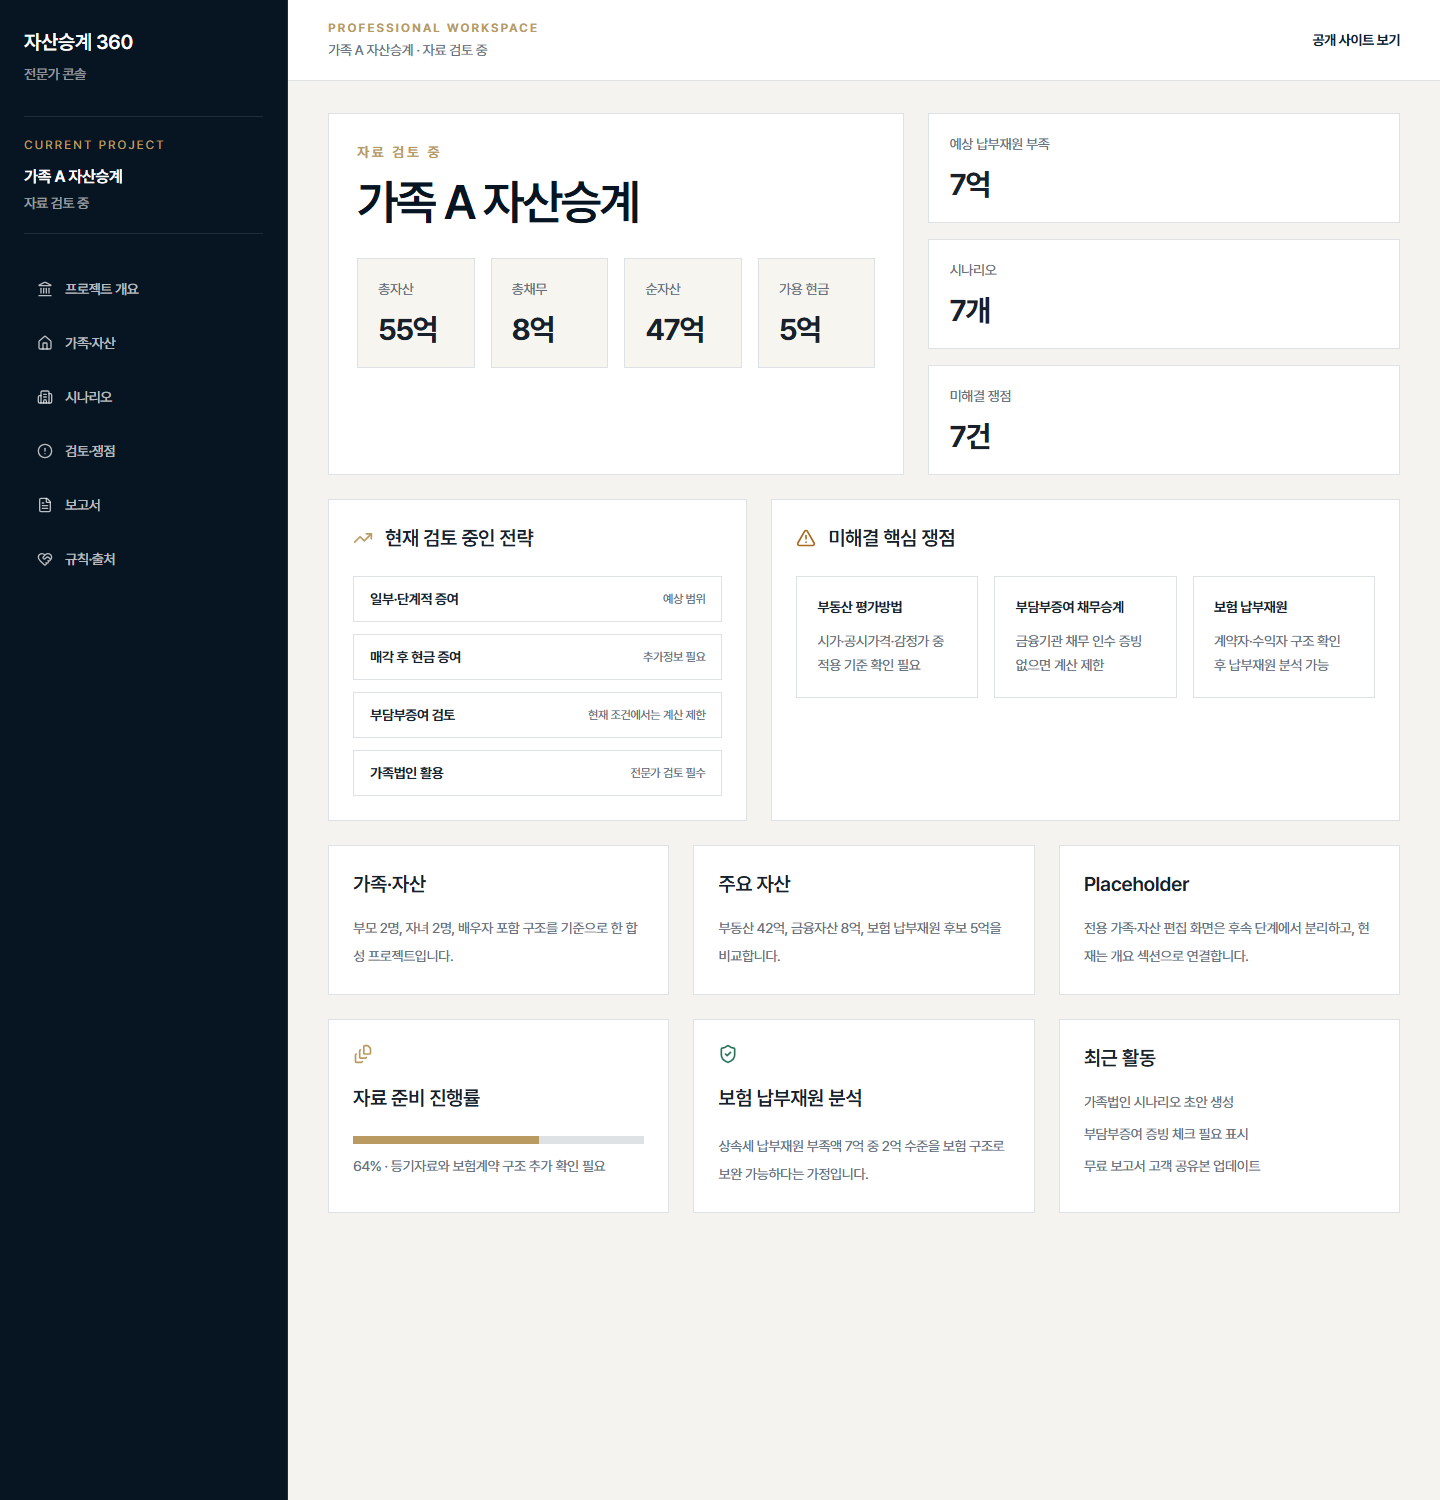
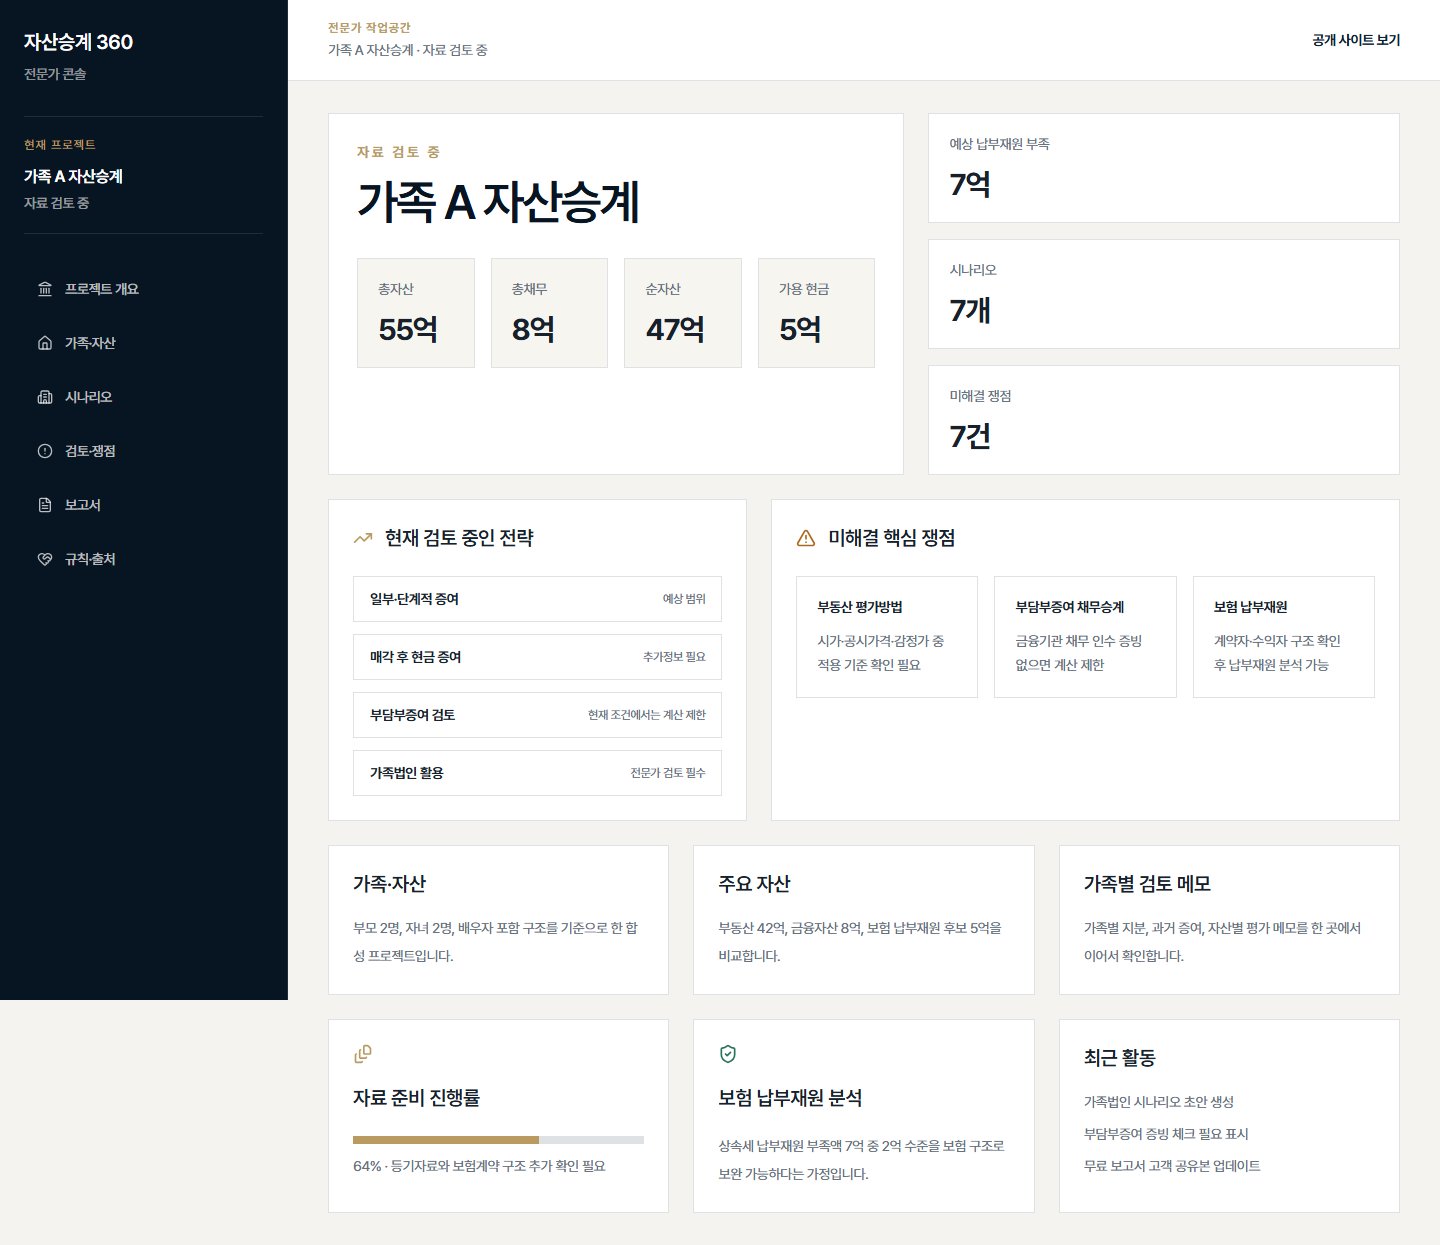
Polish PR 2 product presentation

diff --git a/app/page.tsx b/app/page.tsx
@@ -1,7 +1,7 @@
 import Link from "next/link";
 import { ArrowRight, FileText, ShieldCheck } from "lucide-react";
 import { PublicNav } from "@/components/PublicNav";
-import { flowSteps, publicValuePoints, strategyBranches, prototypeDisclaimer } from "@/lib/mockData";
+import { flowSteps, publicValuePoints, strategyBranches, simulationDisclaimer } from "@/lib/mockData";
 
 export default function LandingPage() {
   return (
@@ -10,13 +10,16 @@ export default function LandingPage() {
         <PublicNav />
         <div className="mx-auto grid min-h-[92vh] max-w-7xl items-center gap-14 px-6 pb-20 pt-32 lg:grid-cols-[1.04fr_0.96fr] lg:px-8">
           <div>
-            <p className="text-sm font-semibold uppercase tracking-[0.22em] text-[var(--gold)]">Private family office pre-check</p>
+            <p className="text-sm font-semibold tracking-[0.08em] text-[var(--gold)]">자산승계 사전진단</p>
             <h1 className="mt-7 max-w-4xl text-[2.55rem] font-semibold leading-[1.04] tracking-[-0.065em] sm:text-[3.15rem] md:text-[5rem]">
               우리 가족의 자산, 어떤 방식으로 남기는 것이 좋을까요?
             </h1>
             <p className="mt-7 max-w-[calc(100vw-3rem)] text-lg leading-8 text-white/72 md:max-w-2xl md:text-xl">
               <span className="block">상속·증여·매각·가족법인·보험 활용까지</span>
               <span className="block">가능한 자산승계 시나리오를 한 번에 비교합니다.</span>
+            </p>
+            <p className="mt-4 max-w-2xl border-l border-[var(--gold)]/60 pl-4 text-sm leading-7 text-white/70">
+              세액 확정 화면이 아니라, 가족 회의 전에 “어떤 선택지를 더 깊게 검토할지” 정리하는 비교 기준입니다.
             </p>
             <div className="mt-9 flex flex-wrap items-center gap-4">
               <Link href="/precheck" className="inline-flex items-center gap-3 bg-white px-5 py-4 text-sm font-semibold text-[var(--navy-950)] transition hover:bg-[var(--ivory)] sm:px-6">
@@ -39,7 +42,7 @@ export default function LandingPage() {
           <div className="relative hidden md:block">
             <div className="border border-white/12 bg-white/[0.04] p-5 backdrop-blur">
               <div className="border border-white/10 bg-[var(--navy-950)]/70 p-6">
-                <p className="text-xs font-semibold uppercase tracking-[0.2em] text-[var(--gold)]">Strategy map</p>
+                <p className="text-xs font-semibold tracking-[0.08em] text-[var(--gold)]">7가지 승계지도</p>
                 <div className="mt-6 grid gap-3">
                   {strategyBranches.map((strategy, index) => {
                     const Icon = strategy.icon;
@@ -50,7 +53,7 @@ export default function LandingPage() {
                         </span>
                         <div className="min-w-0 flex-1">
                           <p className="text-sm font-semibold">{strategy.name}</p>
-                          <p className="mt-1 text-xs text-white/52">{strategy.description}</p>
+                          <p className="mt-1 text-xs text-white/68">{strategy.description}</p>
                         </div>
                         <span className="text-xs text-white/38">0{index + 1}</span>
                       </div>
@@ -102,7 +105,7 @@ export default function LandingPage() {
               </Link>
             </article>
           </div>
-          <p className="mt-8 text-xs text-[var(--muted)]">{prototypeDisclaimer}</p>
+          <p className="mt-8 text-xs text-[var(--muted)]">{simulationDisclaimer}</p>
         </div>
       </section>
     </main>

diff --git a/app/expert/workspace/page.tsx b/app/expert/workspace/page.tsx
@@ -36,7 +36,7 @@ export default function ExpertWorkspacePage() {
           <section className="border border-[var(--border)] bg-white p-6">
             <div className="flex items-center justify-between gap-4">
               <div>
-                <p className="text-sm font-semibold uppercase tracking-[0.18em] text-[var(--gold)]">Family corporation scenario</p>
+                <p className="text-sm font-semibold tracking-[0.08em] text-[var(--gold)]">가족법인 활용 시나리오</p>
                 <h2 className="mt-3 text-3xl font-semibold tracking-[-0.05em] text-[var(--navy-950)]">자산·소유구조 변화</h2>
               </div>
               <button type="button" className="hidden border border-[var(--border)] px-4 py-3 text-sm font-semibold md:inline-flex">
@@ -88,17 +88,17 @@ export default function ExpertWorkspacePage() {
                 <h2 className="text-lg font-semibold">우측 편집 패널</h2>
               </div>
               <p className="mt-4 text-sm leading-7 text-[var(--muted)]">
-                이벤트 수정은 별도 페이지 이동이 아니라 우측 sheet에서 열리는 방식으로 표현합니다.
+                이벤트 수정은 별도 페이지 이동 없이 우측 편집 패널에서 이어서 검토하는 흐름입니다.
               </p>
             </article>
           </aside>
         </section>
 
         <section id="sources" className="mt-6 border border-[var(--border)] bg-white p-6">
-          <p className="text-sm font-semibold uppercase tracking-[0.18em] text-[var(--gold)]">Rules & sources</p>
-          <h2 className="mt-3 text-2xl font-semibold tracking-[-0.04em]">규칙·출처 placeholder</h2>
+          <p className="text-sm font-semibold tracking-[0.08em] text-[var(--gold)]">규칙·출처</p>
+          <h2 className="mt-3 text-2xl font-semibold tracking-[-0.04em]">공식 근거 검토 현황</h2>
           <p className="mt-4 text-sm leading-7 text-[var(--muted)]">
-            세법 원문, 예규, 심판례 연결 상태를 보여주는 전문가 전용 영역입니다. 현재 PR에서는 실제 MCP나 세법 엔진을 연결하지 않고 합성 상태만 표시합니다.
+            세법 원문, 예규, 심판례 연결 상태를 보여주는 전문가 전용 영역입니다. 이 화면은 합성 상태만 표시하며 실제 세법 조회나 계산 엔진에는 연결되어 있지 않습니다.
           </p>
         </section>
       </main>

diff --git a/app/precheck/result/page.tsx b/app/precheck/result/page.tsx
@@ -11,7 +11,7 @@ export default function ResultPage() {
       <section className="mx-auto max-w-7xl px-6 py-12 lg:px-8">
         <div className="grid gap-10 lg:grid-cols-[0.9fr_1.1fr]">
           <div>
-            <p className="text-sm font-semibold uppercase tracking-[0.18em] text-[var(--gold)]">Pre-check report</p>
+            <p className="text-sm font-semibold tracking-[0.08em] text-[var(--gold)]">사전진단 결과</p>
             <h1 className="mt-4 text-4xl font-semibold leading-tight tracking-[-0.055em] text-[var(--navy-950)] md:text-6xl">
               입력 정보 기준 사전 추정 결과입니다.
             </h1>
@@ -31,7 +31,25 @@ export default function ResultPage() {
           </div>
         </div>
 
-        <div className="mt-12">
+        <section className="mt-12 grid gap-4 lg:grid-cols-3">
+          <article className="border border-[var(--border)] bg-white p-6">
+            <p className="text-sm font-semibold text-[var(--gold)]">먼저 볼 기준</p>
+            <h2 className="mt-4 text-2xl font-semibold tracking-[-0.04em]">납부재원 부족액</h2>
+            <p className="mt-3 text-sm leading-7 text-[var(--muted)]">세금 총액보다 실제 현금으로 준비해야 할 부족분을 먼저 확인합니다.</p>
+          </article>
+          <article className="border border-[var(--border)] bg-white p-6">
+            <p className="text-sm font-semibold text-[var(--gold)]">정밀 검토 후보</p>
+            <h2 className="mt-4 text-2xl font-semibold tracking-[-0.04em]">부담부증여·가족법인</h2>
+            <p className="mt-3 text-sm leading-7 text-[var(--muted)]">채무승계 증빙과 지분평가 기준이 확인되어야 비교가 의미 있습니다.</p>
+          </article>
+          <article className="border border-[var(--border)] bg-[var(--navy-950)] p-6 text-white">
+            <p className="text-sm font-semibold text-[var(--gold)]">다음 행동</p>
+            <h2 className="mt-4 text-2xl font-semibold tracking-[-0.04em]">가족 회의용 공유</h2>
+            <p className="mt-3 text-sm leading-7 text-white/68">개인정보 없이 같은 가정과 비교표만 보고, 상담 전 질문을 정리합니다.</p>
+          </article>
+        </section>
+
+        <div className="mt-8">
           <StrategyComparison />
         </div>
 

diff --git a/components/ExpertShell.tsx b/components/ExpertShell.tsx
@@ -37,7 +37,7 @@ export function ExpertShell({ children }: Readonly<{ children: React.ReactNode }
         </Link>
         <p className="mt-2 text-sm text-white/55">전문가 콘솔</p>
         <div className="mt-8 border-y border-white/10 py-5">
-          <p className="text-xs uppercase tracking-[0.18em] text-[var(--gold)]">Current project</p>
+          <p className="text-xs tracking-[0.08em] text-[var(--gold)]">현재 프로젝트</p>
           <p className="mt-3 font-semibold">{projectSnapshot.title}</p>
           <p className="mt-1 text-sm text-white/58">{projectSnapshot.stage}</p>
         </div>
@@ -58,7 +58,7 @@ export function ExpertShell({ children }: Readonly<{ children: React.ReactNode }
               </button>
             </div>
             <div className="mt-8 border-y border-white/10 py-5">
-              <p className="text-xs uppercase tracking-[0.18em] text-[var(--gold)]">Current project</p>
+              <p className="text-xs tracking-[0.08em] text-[var(--gold)]">현재 프로젝트</p>
               <p className="mt-3 font-semibold">{projectSnapshot.title}</p>
               <p className="mt-1 text-sm text-white/58">{projectSnapshot.stage}</p>
             </div>
@@ -81,7 +81,7 @@ export function ExpertShell({ children }: Readonly<{ children: React.ReactNode }
                 <Menu className="h-5 w-5" />
               </button>
               <div>
-                <p className="text-xs font-semibold uppercase tracking-[0.18em] text-[var(--gold)]">Professional workspace</p>
+                <p className="text-xs font-semibold tracking-[0.08em] text-[var(--gold)]">전문가 작업공간</p>
                 <p className="mt-1 text-sm text-[var(--muted)]">{projectSnapshot.title} · {projectSnapshot.stage}</p>
               </div>
             </div>

diff --git a/app/expert/overview/page.tsx b/app/expert/overview/page.tsx
@@ -81,8 +81,8 @@ export default function ExpertOverviewPage() {
             <p className="mt-4 text-sm leading-7 text-[var(--muted)]">부동산 42억, 금융자산 8억, 보험 납부재원 후보 5억을 비교합니다.</p>
           </article>
           <article className="border border-[var(--border)] bg-white p-6">
-            <h2 className="text-xl font-semibold">Placeholder</h2>
-            <p className="mt-4 text-sm leading-7 text-[var(--muted)]">전용 가족·자산 편집 화면은 후속 단계에서 분리하고, 현재는 개요 섹션으로 연결합니다.</p>
+            <h2 className="text-xl font-semibold">가족별 검토 메모</h2>
+            <p className="mt-4 text-sm leading-7 text-[var(--muted)]">가족별 지분, 과거 증여, 자산별 평가 메모를 한 곳에서 이어서 확인합니다.</p>
           </article>
         </section>
 

diff --git a/components/PrecheckWizard.tsx b/components/PrecheckWizard.tsx
@@ -3,7 +3,7 @@
 import Link from "next/link";
 import { ArrowLeft, ArrowRight, Check, ChevronRight } from "lucide-react";
 import { useEffect, useMemo, useState } from "react";
-import { prototypeDisclaimer, wizardSteps } from "@/lib/mockData";
+import { simulationDisclaimer, wizardSteps } from "@/lib/mockData";
 
 type WizardAnswers = Record<string, { choice: string; detail: string }>;
 
@@ -181,7 +181,7 @@ export function PrecheckWizard() {
             </button>
           )}
         </div>
-        <p className="mt-6 text-xs text-[var(--muted)]">{prototypeDisclaimer}</p>
+        <p className="mt-6 text-xs text-[var(--muted)]">{simulationDisclaimer}</p>
       </section>
     </section>
   );

diff --git a/app/consultation/page.tsx b/app/consultation/page.tsx
@@ -15,7 +15,7 @@ export default function ConsultationPage() {
             가족이 입력한 사전진단 요약을 기준으로 쟁점을 먼저 확인하고, 필요한 자료와 상담 방향을 빠르게 정리합니다.
           </p>
           <div className="mt-8 border border-white/10 p-5">
-            <p className="text-xs uppercase tracking-[0.18em] text-white/45">Pre-check ID</p>
+            <p className="text-xs tracking-[0.08em] text-white/45">사전진단 ID</p>
             <p className="mt-3 text-2xl font-semibold tracking-[-0.04em]">AS360-DEMO-2409</p>
           </div>
         </aside>

diff --git a/app/layout.tsx b/app/layout.tsx
@@ -3,7 +3,7 @@ import "./globals.css";
 
 export const metadata: Metadata = {
   title: "자산승계 360",
-  description: "상속·증여·매각·가족법인·보험 활용까지 비교하는 자산승계 사전진단 프로토타입"
+  description: "상속·증여·매각·가족법인·보험 활용까지 비교하는 자산승계 사전진단 화면"
 };
 
 export default function RootLayout({ children }: Readonly<{ children: React.ReactNode }>) {

diff --git a/lib/mockData.ts b/lib/mockData.ts
@@ -280,4 +280,4 @@ export const expertNav = [
   { href: "/expert/workspace#sources", label: "규칙·출처", icon: HeartHandshake, enabled: true }
 ];
 
-export const prototypeDisclaimer = "합성 데이터 기반 화면입니다. 실제 세액 산정 전 전문가 검토가 필요합니다.";
+export const simulationDisclaimer = "합성 데이터 기반 화면입니다. 실제 세액 산정 전 전문가 검토가 필요합니다.";
